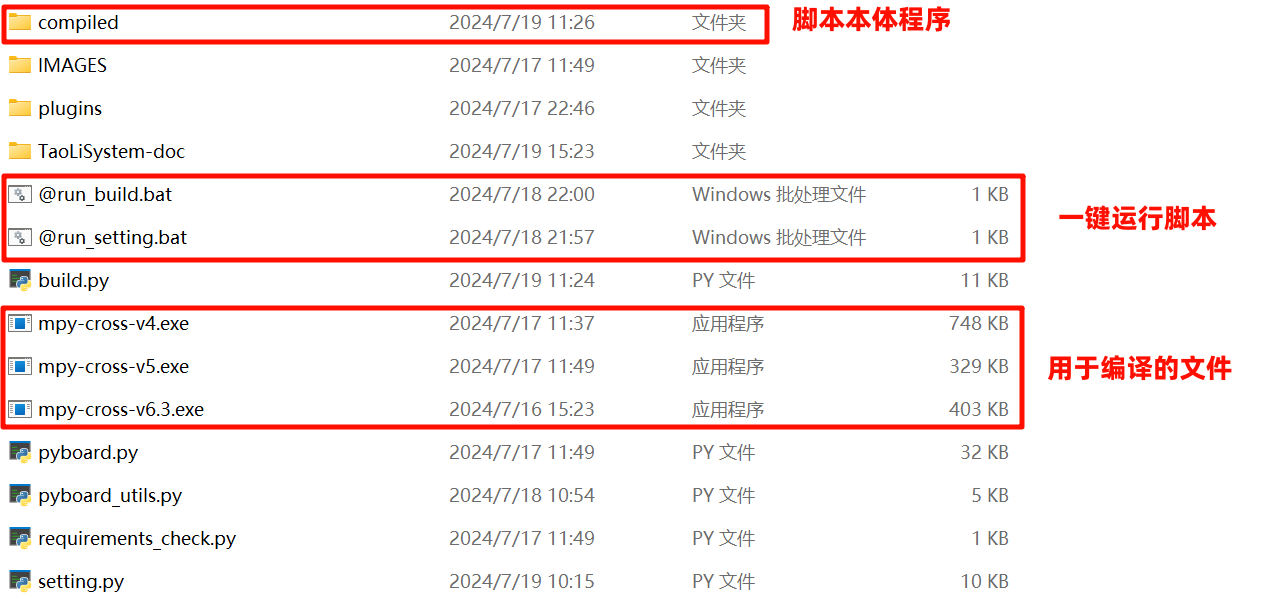
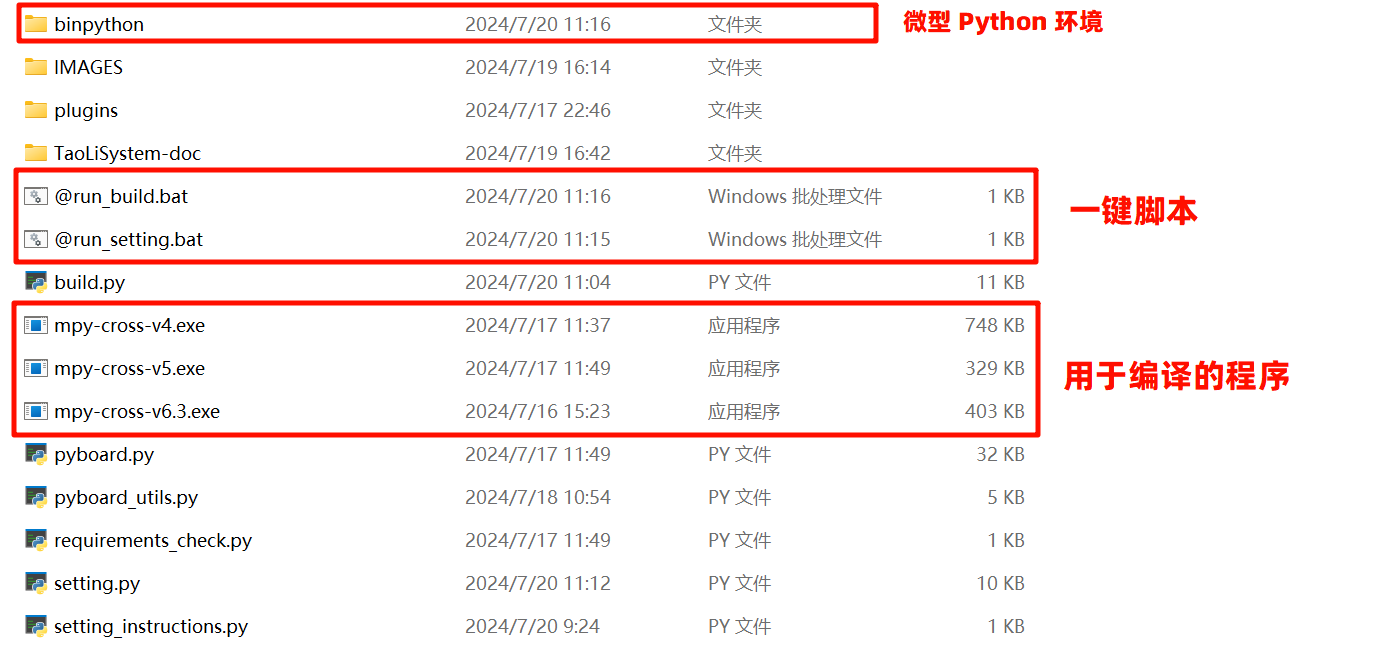
Update：正式更新 v2.1.0 & 更新一处图片问题

diff --git a/README.md b/README.md
@@ -224,7 +224,7 @@ git clone https://gitee.com/wojiaoyishang/TaoLiSystem.git
 
 其中， `@run_build.bat` 是用于编译系统以及下载到掌控板中的，对于为什么需要的编译我们将在后文解释。 `@run_setting.bat` 是用于调整掌控板中的系统设置的。
 
-**如果您的电脑有预装 Python 的环境（推荐版本 `>=3.9` ），可以直接运行相对应的 `build.py` 和 `setting.py` 源代码文件，上述的  `@run_build.bat` 和 `@run_setting.bat` 本质上就是在调用已经编译好的 `build.py` 和 `setting.py` 。**
+**如果您的电脑有预装 Python 的环境（推荐版本 `>=3.9` ），可以直接运行相对应的 `build.py` 和 `setting.py` 源代码文件，上述的  `@run_build.bat` 和 `@run_setting.bat` 本质上就是在调用已经编译好的微型 Python 来调用 `build.py` 和 `setting.py` 。**
 
 #### 安装驱动
 
